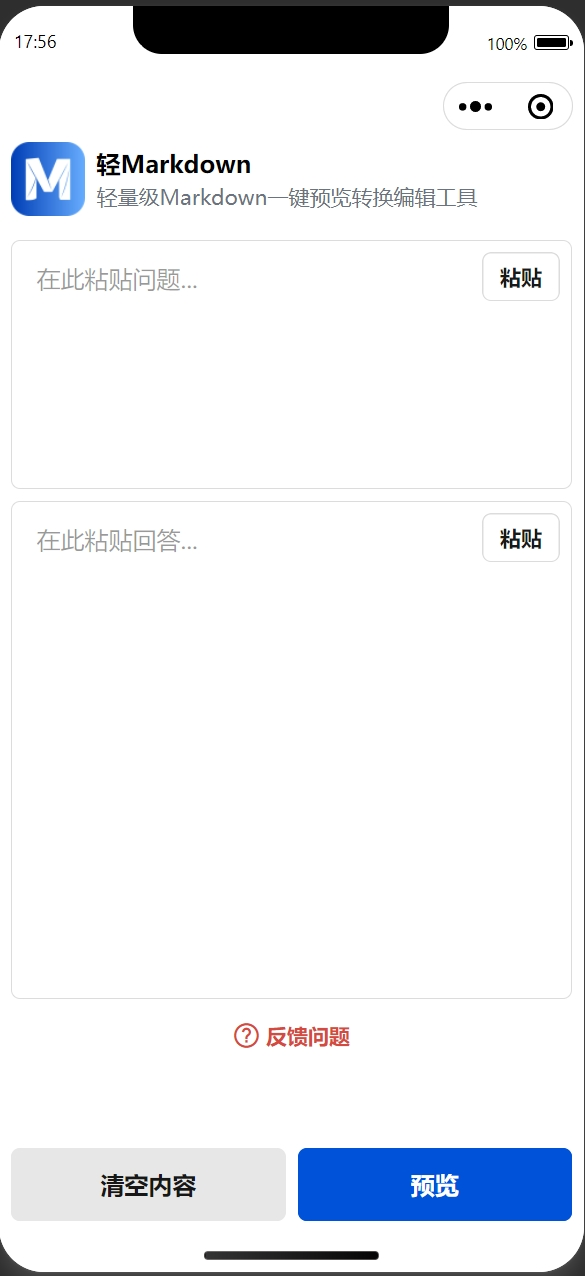
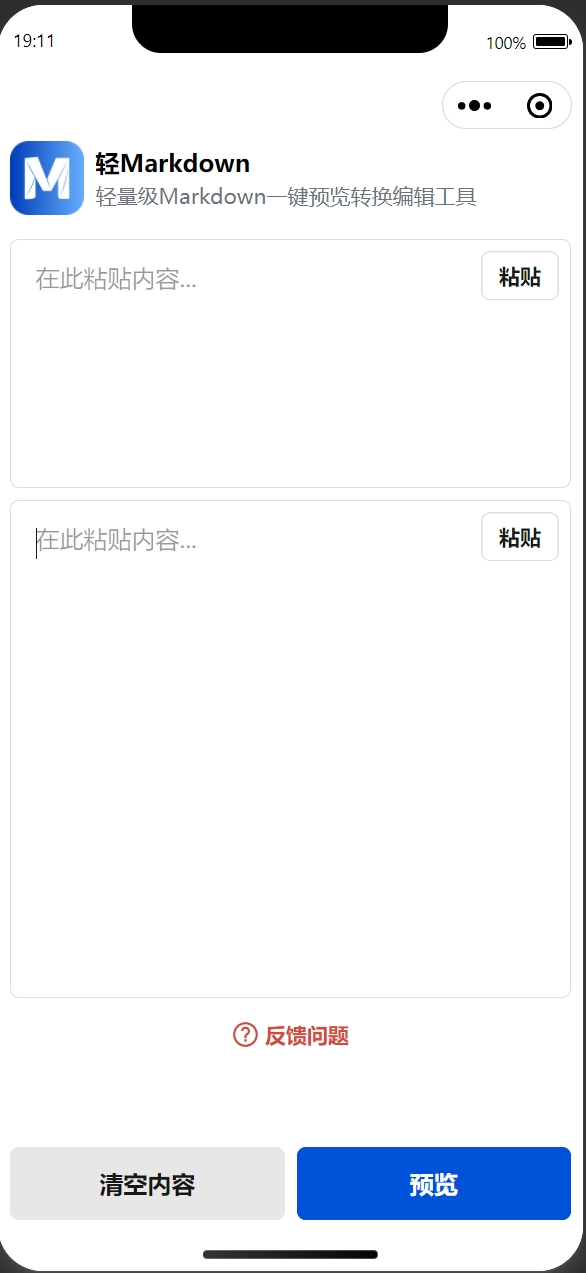
commit init

diff --git a/src/pages/home/home.html b/src/pages/home/home.html
@@ -14,7 +14,7 @@
       <t-textarea
         value="{{issue}}"
         t-class="h-40"
-        placeholder="在此粘贴问题..."
+        placeholder="在此粘贴内容..."
         bordered="{{true}}"
         disableDefaultPadding="{{true}}"
         bind:change="handleIssueChange"
@@ -27,7 +27,7 @@
       <t-textarea
         value="{{answer}}"
         t-class="h-80"
-        placeholder="在此粘贴回答..."
+        placeholder="在此粘贴内容..."
         bordered="{{true}}"
         disableDefaultPadding="{{true}}"
         bind:change="handleAnswerChange"
